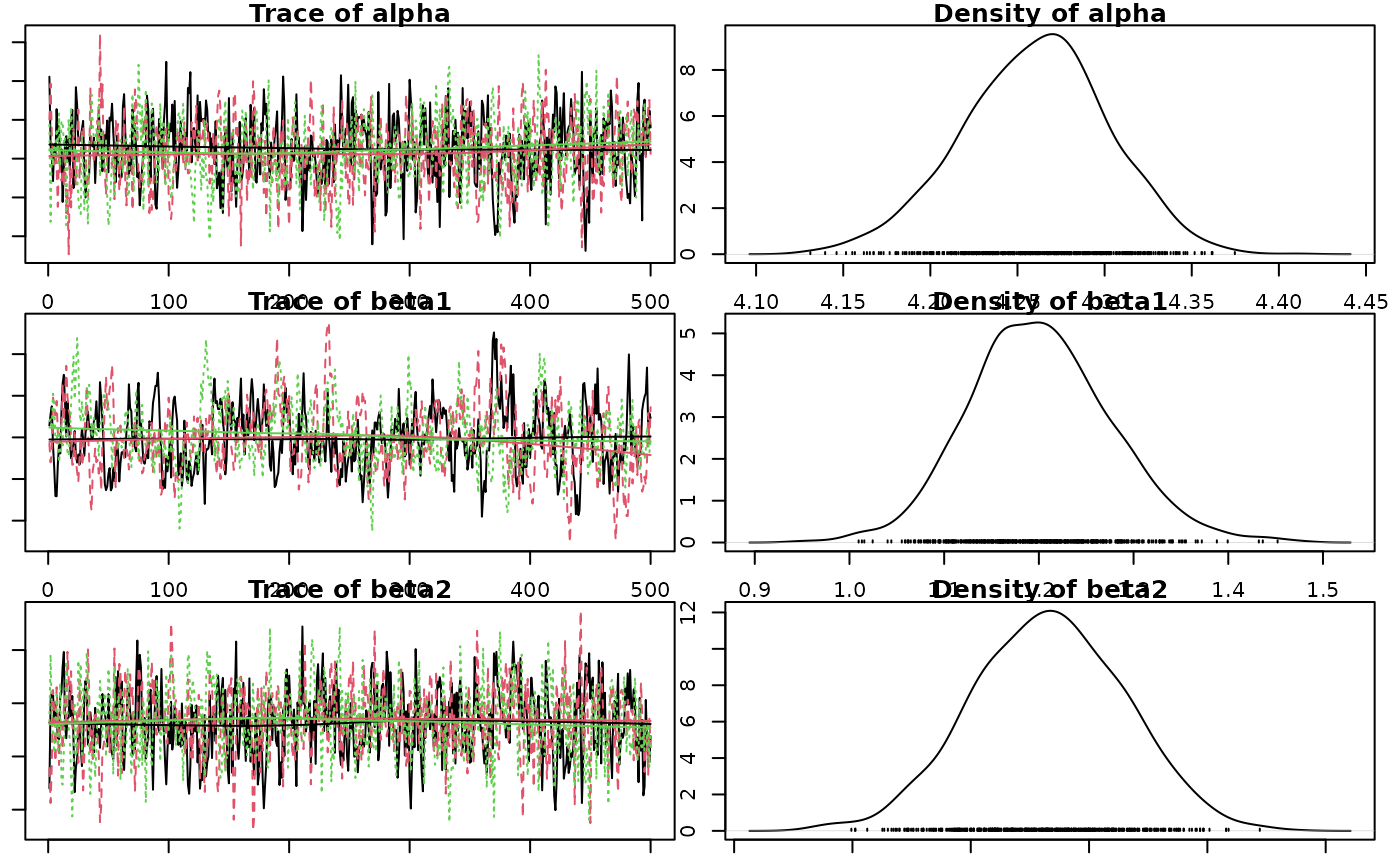
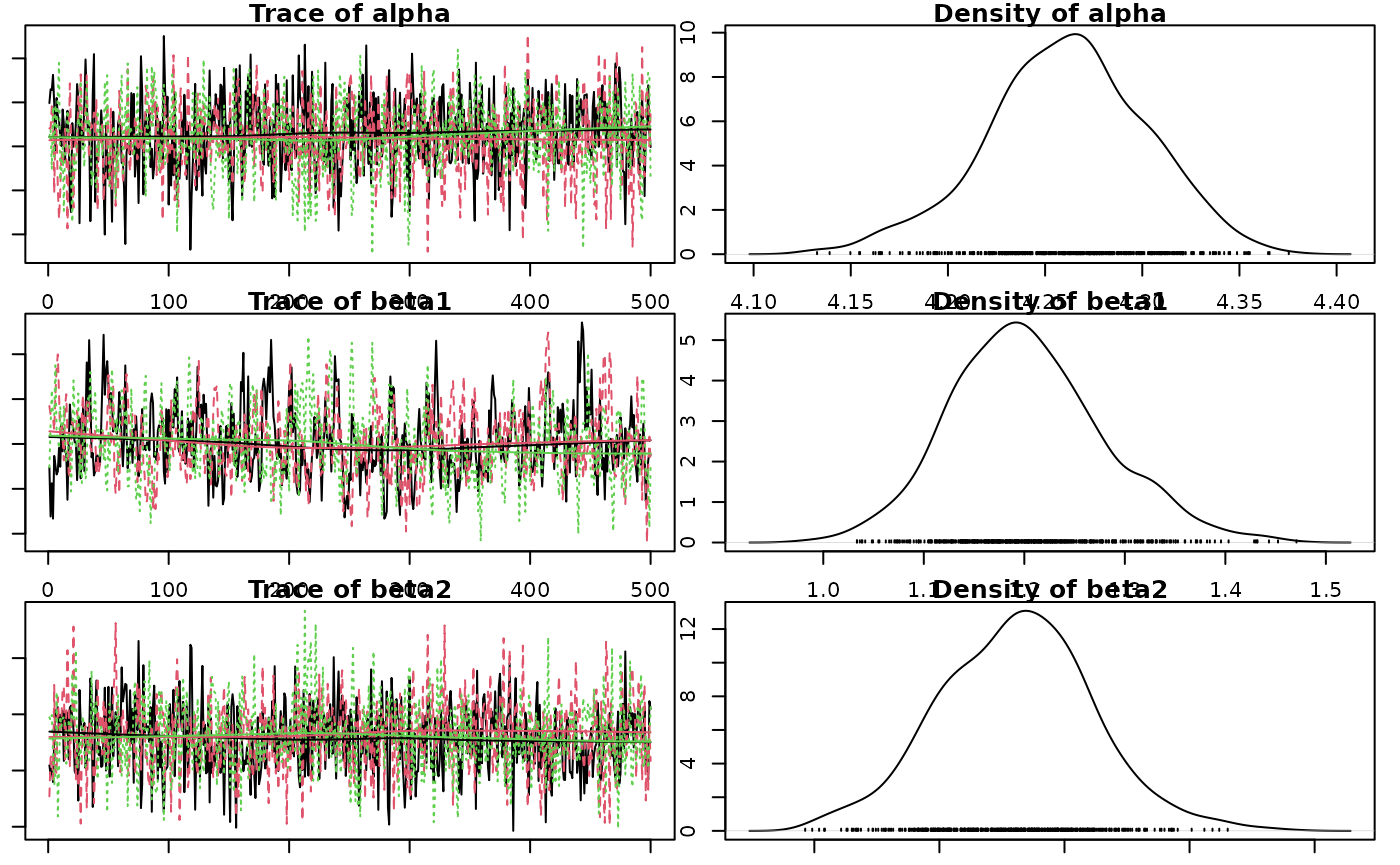
Built site for jmbr@0.0.0.9117: 1a6c431

diff --git a/articles/jmbr.html b/articles/jmbr.html
@@ -32,7 +32,7 @@
       </button>
       <span class="navbar-brand">
         <a class="navbar-link" href="../index.html">jmbr</a>
-        <span class="version label label-default" data-toggle="tooltip" data-placement="bottom" title="">0.0.0.9116</span>
+        <span class="version label label-default" data-toggle="tooltip" data-placement="bottom" title="">0.0.0.9117</span>
       </span>
     </div>
 
@@ -300,14 +300,14 @@ value and discarding all other values.</p>
 <span><span class="co">#&gt; <span style="color: #949494;"># A tibble: 1 × 8</span></span></span>
 <span><span class="co">#&gt;       n     K nchains niters nthin   ess  rhat converged</span></span>
 <span><span class="co">#&gt;   <span style="color: #949494; font-style: italic;">&lt;int&gt;</span> <span style="color: #949494; font-style: italic;">&lt;int&gt;</span>   <span style="color: #949494; font-style: italic;">&lt;int&gt;</span>  <span style="color: #949494; font-style: italic;">&lt;int&gt;</span> <span style="color: #949494; font-style: italic;">&lt;int&gt;</span> <span style="color: #949494; font-style: italic;">&lt;int&gt;</span> <span style="color: #949494; font-style: italic;">&lt;dbl&gt;</span> <span style="color: #949494; font-style: italic;">&lt;lgl&gt;</span>    </span></span>
-<span><span class="co">#&gt; <span style="color: #BCBCBC;">1</span>    40     6       3    500    10   252  1.01 TRUE</span></span>
+<span><span class="co">#&gt; <span style="color: #BCBCBC;">1</span>    40     6       3    500    10   222  1.08 FALSE</span></span>
 <span><span class="co">#&gt; Warning in value[[3L]](cond): beep() could not play the sound due to the following error:</span></span>
 <span><span class="co">#&gt; Error in play.default(x, rate, ...): no audio drivers are available</span></span>
 <span><span class="va">analysis</span> <span class="op">&lt;-</span> <span class="fu"><a href="https://rdrr.io/pkg/embr/man/reanalyse.html" class="external-link">reanalyse</a></span><span class="op">(</span><span class="va">analysis</span><span class="op">)</span></span>
 <span><span class="co">#&gt; <span style="color: #949494;"># A tibble: 1 × 8</span></span></span>
 <span><span class="co">#&gt;       n     K nchains niters nthin   ess  rhat converged</span></span>
 <span><span class="co">#&gt;   <span style="color: #949494; font-style: italic;">&lt;int&gt;</span> <span style="color: #949494; font-style: italic;">&lt;int&gt;</span>   <span style="color: #949494; font-style: italic;">&lt;int&gt;</span>  <span style="color: #949494; font-style: italic;">&lt;int&gt;</span> <span style="color: #949494; font-style: italic;">&lt;int&gt;</span> <span style="color: #949494; font-style: italic;">&lt;int&gt;</span> <span style="color: #949494; font-style: italic;">&lt;dbl&gt;</span> <span style="color: #949494; font-style: italic;">&lt;lgl&gt;</span>    </span></span>
-<span><span class="co">#&gt; <span style="color: #BCBCBC;">1</span>    40     6       3    500    10   252  1.01 TRUE</span></span>
+<span><span class="co">#&gt; <span style="color: #BCBCBC;">1</span>    40     6       3    500    20   422  1.01 TRUE</span></span>
 <span><span class="co">#&gt; Warning in value[[3L]](cond): beep() could not play the sound due to the following error:</span></span>
 <span><span class="co">#&gt; Error in play.default(x, rate, ...): no audio drivers are available</span></span></code></pre></div>
 <p><strong>Analysis Table:</strong></p>
@@ -357,12 +357,12 @@ between- and within-chain estimates for model parameters.
 <span><span class="co">#&gt; <span style="color: #949494;"># A tibble: 6 × 7</span></span></span>
 <span><span class="co">#&gt;   term        estimate     sd  zscore   lower   upper   pvalue</span></span>
 <span><span class="co">#&gt;   <span style="color: #949494; font-style: italic;">&lt;term&gt;</span>         <span style="color: #949494; font-style: italic;">&lt;dbl&gt;</span>  <span style="color: #949494; font-style: italic;">&lt;dbl&gt;</span>   <span style="color: #949494; font-style: italic;">&lt;dbl&gt;</span>   <span style="color: #949494; font-style: italic;">&lt;dbl&gt;</span>   <span style="color: #949494; font-style: italic;">&lt;dbl&gt;</span>    <span style="color: #949494; font-style: italic;">&lt;dbl&gt;</span></span></span>
-<span><span class="co">#&gt; <span style="color: #BCBCBC;">1</span> alpha         4.26   0.042<span style="text-decoration: underline;">0</span> 102.     4.17    4.34   0.000<span style="text-decoration: underline;">666</span></span></span>
-<span><span class="co">#&gt; <span style="color: #BCBCBC;">2</span> beta1         1.20   0.075<span style="text-decoration: underline;">6</span>  15.9    1.06    1.36   0.000<span style="text-decoration: underline;">666</span></span></span>
-<span><span class="co">#&gt; <span style="color: #BCBCBC;">3</span> beta2        -<span style="color: #BB0000;">0.017</span><span style="color: #BB0000; text-decoration: underline;">3</span> 0.032<span style="text-decoration: underline;">1</span>  -<span style="color: #BB0000;">0.536</span> -<span style="color: #BB0000;">0.079</span><span style="color: #BB0000; text-decoration: underline;">7</span>  0.045<span style="text-decoration: underline;">3</span> 0.594   </span></span>
-<span><span class="co">#&gt; <span style="color: #BCBCBC;">4</span> beta3        -<span style="color: #BB0000;">0.275</span>  0.038<span style="text-decoration: underline;">8</span>  -<span style="color: #BB0000;">7.12</span>  -<span style="color: #BB0000;">0.355</span>  -<span style="color: #BB0000;">0.204</span>  0.000<span style="text-decoration: underline;">666</span></span></span>
-<span><span class="co">#&gt; <span style="color: #BCBCBC;">5</span> log_sAnnual  -<span style="color: #BB0000;">2.21</span>   0.293   -<span style="color: #BB0000;">7.66</span>  -<span style="color: #BB0000;">2.91</span>   -<span style="color: #BB0000;">1.75</span>   0.000<span style="text-decoration: underline;">666</span></span></span>
-<span><span class="co">#&gt; <span style="color: #BCBCBC;">6</span> sAnnual       0.109  0.030<span style="text-decoration: underline;">6</span>   3.61   0.054<span style="text-decoration: underline;">6</span>  0.173  0.000<span style="text-decoration: underline;">666</span></span></span></code></pre></div>
+<span><span class="co">#&gt; <span style="color: #BCBCBC;">1</span> alpha         4.26   0.041<span style="text-decoration: underline;">3</span> 103.     4.17    4.34   0.000<span style="text-decoration: underline;">666</span></span></span>
+<span><span class="co">#&gt; <span style="color: #BCBCBC;">2</span> beta1         1.20   0.076<span style="text-decoration: underline;">9</span>  15.6    1.06    1.37   0.000<span style="text-decoration: underline;">666</span></span></span>
+<span><span class="co">#&gt; <span style="color: #BCBCBC;">3</span> beta2        -<span style="color: #BB0000;">0.019</span><span style="color: #BB0000; text-decoration: underline;">0</span> 0.030<span style="text-decoration: underline;">9</span>  -<span style="color: #BB0000;">0.630</span> -<span style="color: #BB0000;">0.082</span><span style="color: #BB0000; text-decoration: underline;">1</span>  0.043<span style="text-decoration: underline;">0</span> 0.510   </span></span>
+<span><span class="co">#&gt; <span style="color: #BCBCBC;">4</span> beta3        -<span style="color: #BB0000;">0.275</span>  0.039<span style="text-decoration: underline;">3</span>  -<span style="color: #BB0000;">7.05</span>  -<span style="color: #BB0000;">0.362</span>  -<span style="color: #BB0000;">0.204</span>  0.000<span style="text-decoration: underline;">666</span></span></span>
+<span><span class="co">#&gt; <span style="color: #BCBCBC;">5</span> log_sAnnual  -<span style="color: #BB0000;">2.23</span>   0.368   -<span style="color: #BB0000;">6.19</span>  -<span style="color: #BB0000;">3.16</span>   -<span style="color: #BB0000;">1.74</span>   0.000<span style="text-decoration: underline;">666</span></span></span>
+<span><span class="co">#&gt; <span style="color: #BCBCBC;">6</span> sAnnual       0.107  0.033<span style="text-decoration: underline;">2</span>   3.26   0.042<span style="text-decoration: underline;">4</span>  0.175  0.000<span style="text-decoration: underline;">666</span></span></span></code></pre></div>
 <p>The estimate is the <strong>median</strong> by default.</p>
 <p>The zscore is
 <math display="inline" xmlns="http://www.w3.org/1998/Math/MathML"><semantics><mrow><mi>m</mi><mi>e</mi><mi>a</mi><mi>n</mi><mi>/</mi><mi>s</mi><mi>d</mi></mrow><annotation encoding="application/x-tex">mean / sd</annotation></semantics></math>.</p>
@@ -372,11 +372,11 @@ between- and within-chain estimates for model parameters.
 <span><span class="co">#&gt;   term        estimate   lower   upper svalue</span></span>
 <span><span class="co">#&gt;   <span style="color: #949494; font-style: italic;">&lt;term&gt;</span>         <span style="color: #949494; font-style: italic;">&lt;dbl&gt;</span>   <span style="color: #949494; font-style: italic;">&lt;dbl&gt;</span>   <span style="color: #949494; font-style: italic;">&lt;dbl&gt;</span>  <span style="color: #949494; font-style: italic;">&lt;dbl&gt;</span></span></span>
 <span><span class="co">#&gt; <span style="color: #BCBCBC;">1</span> alpha         4.26    4.17    4.34   10.6  </span></span>
-<span><span class="co">#&gt; <span style="color: #BCBCBC;">2</span> beta1         1.20    1.06    1.36   10.6  </span></span>
-<span><span class="co">#&gt; <span style="color: #BCBCBC;">3</span> beta2        -<span style="color: #BB0000;">0.017</span><span style="color: #BB0000; text-decoration: underline;">3</span> -<span style="color: #BB0000;">0.079</span><span style="color: #BB0000; text-decoration: underline;">7</span>  0.045<span style="text-decoration: underline;">3</span>  0.752</span></span>
-<span><span class="co">#&gt; <span style="color: #BCBCBC;">4</span> beta3        -<span style="color: #BB0000;">0.275</span>  -<span style="color: #BB0000;">0.355</span>  -<span style="color: #BB0000;">0.204</span>  10.6  </span></span>
-<span><span class="co">#&gt; <span style="color: #BCBCBC;">5</span> log_sAnnual  -<span style="color: #BB0000;">2.21</span>   -<span style="color: #BB0000;">2.91</span>   -<span style="color: #BB0000;">1.75</span>   10.6  </span></span>
-<span><span class="co">#&gt; <span style="color: #BCBCBC;">6</span> sAnnual       0.109   0.054<span style="text-decoration: underline;">6</span>  0.173  10.6</span></span></code></pre></div>
+<span><span class="co">#&gt; <span style="color: #BCBCBC;">2</span> beta1         1.20    1.06    1.37   10.6  </span></span>
+<span><span class="co">#&gt; <span style="color: #BCBCBC;">3</span> beta2        -<span style="color: #BB0000;">0.019</span><span style="color: #BB0000; text-decoration: underline;">0</span> -<span style="color: #BB0000;">0.082</span><span style="color: #BB0000; text-decoration: underline;">1</span>  0.043<span style="text-decoration: underline;">0</span>  0.972</span></span>
+<span><span class="co">#&gt; <span style="color: #BCBCBC;">4</span> beta3        -<span style="color: #BB0000;">0.275</span>  -<span style="color: #BB0000;">0.362</span>  -<span style="color: #BB0000;">0.204</span>  10.6  </span></span>
+<span><span class="co">#&gt; <span style="color: #BCBCBC;">5</span> log_sAnnual  -<span style="color: #BB0000;">2.23</span>   -<span style="color: #BB0000;">3.16</span>   -<span style="color: #BB0000;">1.74</span>   10.6  </span></span>
+<span><span class="co">#&gt; <span style="color: #BCBCBC;">6</span> sAnnual       0.107   0.042<span style="text-decoration: underline;">4</span>  0.175  10.6</span></span></code></pre></div>
 <p>The s-value is the <strong>suprisal</strong> value, which is a
 measure of directionality with respect to zero.</p>
 <p>The s-value is zero (unsurprising) when <em>p-value</em> = 1.0 and
@@ -514,7 +514,7 @@ in sequences.</li>
 
 <div class="pkgdown">
   <p></p>
-<p>Site built with <a href="https://pkgdown.r-lib.org/" class="external-link">pkgdown</a> 2.1.0.9000.</p>
+<p>Site built with <a href="https://pkgdown.r-lib.org/" class="external-link">pkgdown</a> 2.1.0.</p>
 </div>
 
       </footer>

diff --git a/CONTRIBUTING.html b/CONTRIBUTING.html
@@ -17,7 +17,7 @@
       </button>
       <span class="navbar-brand">
         <a class="navbar-link" href="index.html">jmbr</a>
-        <span class="version label label-default" data-toggle="tooltip" data-placement="bottom" title="">0.0.0.9116</span>
+        <span class="version label label-default" data-toggle="tooltip" data-placement="bottom" title="">0.0.0.9117</span>
       </span>
     </div>
 
@@ -64,7 +64,7 @@
 <ul><li><p>Fork the package and clone onto your computer. If you haven’t done this before, we recommend using <code>usethis::create_from_github("", fork = TRUE)</code>.</p></li>
 <li><p>Install all development dependences with <code>devtools::install_dev_deps()</code>, and then make sure the package passes R CMD check by running <code>devtools::check()</code>. If R CMD check doesn’t pass cleanly, it’s a good idea to ask for help before continuing.</p></li>
 <li><p>Create a Git branch for your pull request (PR). We recommend using <code>usethis::pr_init("brief-description-of-change")</code>.</p></li>
-<li><p>Make your changes, commit to git, and then create a PR by running <code><a href="https://usethis.r-lib.org/reference/pull-requests.html" class="external-link">usethis::pr_push()</a></code>, and following the prompts in your browser. The title of your PR should briefly describe the change. The body of your PR should contain <code>Fixes #issue-number</code>.</p></li>
+<li><p>Make your changes, commit to git, and then create a PR by running <code>usethis::pr_push()</code>, and following the prompts in your browser. The title of your PR should briefly describe the change. The body of your PR should contain <code>Fixes #issue-number</code>.</p></li>
 <li><p>Begin commit or merge messages with <code>-</code> to indicate user facing changes that should be included in NEWS.md. We will use <a href="https://github.com/krlmlr/fledge" class="external-link">fledge</a> to automatically generate the NEWS.md file.</p></li>
 </ul></div>
 <div class="section level3">
@@ -95,7 +95,7 @@
 </div>
 
 <div class="pkgdown">
-  <p></p><p>Site built with <a href="https://pkgdown.r-lib.org/" class="external-link">pkgdown</a> 2.1.0.9000.</p>
+  <p></p><p>Site built with <a href="https://pkgdown.r-lib.org/" class="external-link">pkgdown</a> 2.1.0.</p>
 </div>
 
       </footer></div>

diff --git a/news/index.html b/news/index.html
@@ -17,7 +17,7 @@
       </button>
       <span class="navbar-brand">
         <a class="navbar-link" href="../index.html">jmbr</a>
-        <span class="version label label-default" data-toggle="tooltip" data-placement="bottom" title="">0.0.0.9116</span>
+        <span class="version label label-default" data-toggle="tooltip" data-placement="bottom" title="">0.0.0.9117</span>
       </span>
     </div>
 
@@ -50,6 +50,13 @@
       <small>Source: <a href="https://github.com/poissonconsulting/jmbr/blob/main/NEWS.md" class="external-link"><code>NEWS.md</code></a></small>
     </div>
 
+    <div class="section level2">
+<h2 class="page-header" data-toc-text="0.0.0.9117" id="jmbr-0009117-2024-08-17">jmbr 0.0.0.9117 (2024-08-17)<a class="anchor" aria-label="anchor" href="#jmbr-0009117-2024-08-17"></a></h2>
+<div class="section level3">
+<h3 id="continuous-integration-0-0-0-9117">Continuous integration<a class="anchor" aria-label="anchor" href="#continuous-integration-0-0-0-9117"></a></h3>
+<ul><li>Sync with latest developments.</li>
+</ul></div>
+</div>
     <div class="section level2">
 <h2 class="page-header" data-toc-text="0.0.0.9116" id="jmbr-0009116-2024-08-11">jmbr 0.0.0.9116 (2024-08-11)<a class="anchor" aria-label="anchor" href="#jmbr-0009116-2024-08-11"></a></h2>
 <div class="section level3">
@@ -107,7 +114,7 @@
 </div>
 
 <div class="pkgdown">
-  <p></p><p>Site built with <a href="https://pkgdown.r-lib.org/" class="external-link">pkgdown</a> 2.1.0.9000.</p>
+  <p></p><p>Site built with <a href="https://pkgdown.r-lib.org/" class="external-link">pkgdown</a> 2.1.0.</p>
 </div>
 
       </footer></div>

diff --git a/LICENSE-text.html b/LICENSE-text.html
@@ -17,7 +17,7 @@
       </button>
       <span class="navbar-brand">
         <a class="navbar-link" href="index.html">jmbr</a>
-        <span class="version label label-default" data-toggle="tooltip" data-placement="bottom" title="">0.0.0.9116</span>
+        <span class="version label label-default" data-toggle="tooltip" data-placement="bottom" title="">0.0.0.9117</span>
       </span>
     </div>
 
@@ -68,7 +68,7 @@ COPYRIGHT HOLDER: Poisson Consulting
 </div>
 
 <div class="pkgdown">
-  <p></p><p>Site built with <a href="https://pkgdown.r-lib.org/" class="external-link">pkgdown</a> 2.1.0.9000.</p>
+  <p></p><p>Site built with <a href="https://pkgdown.r-lib.org/" class="external-link">pkgdown</a> 2.1.0.</p>
 </div>
 
       </footer></div>

diff --git a/404.html b/404.html
@@ -32,7 +32,7 @@
       </button>
       <span class="navbar-brand">
         <a class="navbar-link" href="index.html">jmbr</a>
-        <span class="version label label-default" data-toggle="tooltip" data-placement="bottom" title="">0.0.0.9116</span>
+        <span class="version label label-default" data-toggle="tooltip" data-placement="bottom" title="">0.0.0.9117</span>
       </span>
     </div>
 
@@ -91,7 +91,7 @@ Content not found. Please use links in the navbar.
 
 <div class="pkgdown">
   <p></p>
-<p>Site built with <a href="https://pkgdown.r-lib.org/" class="external-link">pkgdown</a> 2.1.0.9000.</p>
+<p>Site built with <a href="https://pkgdown.r-lib.org/" class="external-link">pkgdown</a> 2.1.0.</p>
 </div>
 
       </footer>

diff --git a/articles/index.html b/articles/index.html
@@ -17,7 +17,7 @@
       </button>
       <span class="navbar-brand">
         <a class="navbar-link" href="../index.html">jmbr</a>
-        <span class="version label label-default" data-toggle="tooltip" data-placement="bottom" title="">0.0.0.9116</span>
+        <span class="version label label-default" data-toggle="tooltip" data-placement="bottom" title="">0.0.0.9117</span>
       </span>
     </div>
 
@@ -65,7 +65,7 @@
 </div>
 
 <div class="pkgdown">
-  <p></p><p>Site built with <a href="https://pkgdown.r-lib.org/" class="external-link">pkgdown</a> 2.1.0.9000.</p>
+  <p></p><p>Site built with <a href="https://pkgdown.r-lib.org/" class="external-link">pkgdown</a> 2.1.0.</p>
 </div>
 
       </footer></div>

diff --git a/reference/index.html b/reference/index.html
@@ -17,7 +17,7 @@
       </button>
       <span class="navbar-brand">
         <a class="navbar-link" href="../index.html">jmbr</a>
-        <span class="version label label-default" data-toggle="tooltip" data-placement="bottom" title="">0.0.0.9116</span>
+        <span class="version label label-default" data-toggle="tooltip" data-placement="bottom" title="">0.0.0.9117</span>
       </span>
     </div>
 
@@ -78,7 +78,7 @@
 </div>
 
 <div class="pkgdown">
-  <p></p><p>Site built with <a href="https://pkgdown.r-lib.org/" class="external-link">pkgdown</a> 2.1.0.9000.</p>
+  <p></p><p>Site built with <a href="https://pkgdown.r-lib.org/" class="external-link">pkgdown</a> 2.1.0.</p>
 </div>
 
       </footer></div>

diff --git a/reference/is.jmb_analysis.html b/reference/is.jmb_analysis.html
@@ -17,7 +17,7 @@
       </button>
       <span class="navbar-brand">
         <a class="navbar-link" href="../index.html">jmbr</a>
-        <span class="version label label-default" data-toggle="tooltip" data-placement="bottom" title="">0.0.0.9116</span>
+        <span class="version label label-default" data-toggle="tooltip" data-placement="bottom" title="">0.0.0.9117</span>
       </span>
     </div>
 
@@ -84,7 +84,7 @@
 </div>
 
 <div class="pkgdown">
-  <p></p><p>Site built with <a href="https://pkgdown.r-lib.org/" class="external-link">pkgdown</a> 2.1.0.9000.</p>
+  <p></p><p>Site built with <a href="https://pkgdown.r-lib.org/" class="external-link">pkgdown</a> 2.1.0.</p>
 </div>
 
       </footer></div>

diff --git a/reference/is.jmb_code.html b/reference/is.jmb_code.html
@@ -17,7 +17,7 @@
       </button>
       <span class="navbar-brand">
         <a class="navbar-link" href="../index.html">jmbr</a>
-        <span class="version label label-default" data-toggle="tooltip" data-placement="bottom" title="">0.0.0.9116</span>
+        <span class="version label label-default" data-toggle="tooltip" data-placement="bottom" title="">0.0.0.9117</span>
       </span>
     </div>
 
@@ -84,7 +84,7 @@
 </div>
 
 <div class="pkgdown">
-  <p></p><p>Site built with <a href="https://pkgdown.r-lib.org/" class="external-link">pkgdown</a> 2.1.0.9000.</p>
+  <p></p><p>Site built with <a href="https://pkgdown.r-lib.org/" class="external-link">pkgdown</a> 2.1.0.</p>
 </div>
 
       </footer></div>

diff --git a/reference/is.jmb_model.html b/reference/is.jmb_model.html
@@ -17,7 +17,7 @@
       </button>
       <span class="navbar-brand">
         <a class="navbar-link" href="../index.html">jmbr</a>
-        <span class="version label label-default" data-toggle="tooltip" data-placement="bottom" title="">0.0.0.9116</span>
+        <span class="version label label-default" data-toggle="tooltip" data-placement="bottom" title="">0.0.0.9117</span>
       </span>
     </div>
 
@@ -84,7 +84,7 @@
 </div>
 
 <div class="pkgdown">
-  <p></p><p>Site built with <a href="https://pkgdown.r-lib.org/" class="external-link">pkgdown</a> 2.1.0.9000.</p>
+  <p></p><p>Site built with <a href="https://pkgdown.r-lib.org/" class="external-link">pkgdown</a> 2.1.0.</p>
 </div>
 
       </footer></div>

diff --git a/reference/jmbr-package.html b/reference/jmbr-package.html
@@ -17,7 +17,7 @@
       </button>
       <span class="navbar-brand">
         <a class="navbar-link" href="../index.html">jmbr</a>
-        <span class="version label label-default" data-toggle="tooltip" data-placement="bottom" title="">0.0.0.9116</span>
+        <span class="version label label-default" data-toggle="tooltip" data-placement="bottom" title="">0.0.0.9117</span>
       </span>
     </div>
 
@@ -79,7 +79,7 @@
 </div>
 
 <div class="pkgdown">
-  <p></p><p>Site built with <a href="https://pkgdown.r-lib.org/" class="external-link">pkgdown</a> 2.1.0.9000.</p>
+  <p></p><p>Site built with <a href="https://pkgdown.r-lib.org/" class="external-link">pkgdown</a> 2.1.0.</p>
 </div>
 
       </footer></div>

diff --git a/CODE_OF_CONDUCT.html b/CODE_OF_CONDUCT.html
@@ -17,7 +17,7 @@
       </button>
       <span class="navbar-brand">
         <a class="navbar-link" href="index.html">jmbr</a>
-        <span class="version label label-default" data-toggle="tooltip" data-placement="bottom" title="">0.0.0.9116</span>
+        <span class="version label label-default" data-toggle="tooltip" data-placement="bottom" title="">0.0.0.9117</span>
       </span>
     </div>
 
@@ -132,7 +132,7 @@
 </div>
 
 <div class="pkgdown">
-  <p></p><p>Site built with <a href="https://pkgdown.r-lib.org/" class="external-link">pkgdown</a> 2.1.0.9000.</p>
+  <p></p><p>Site built with <a href="https://pkgdown.r-lib.org/" class="external-link">pkgdown</a> 2.1.0.</p>
 </div>
 
       </footer></div>
